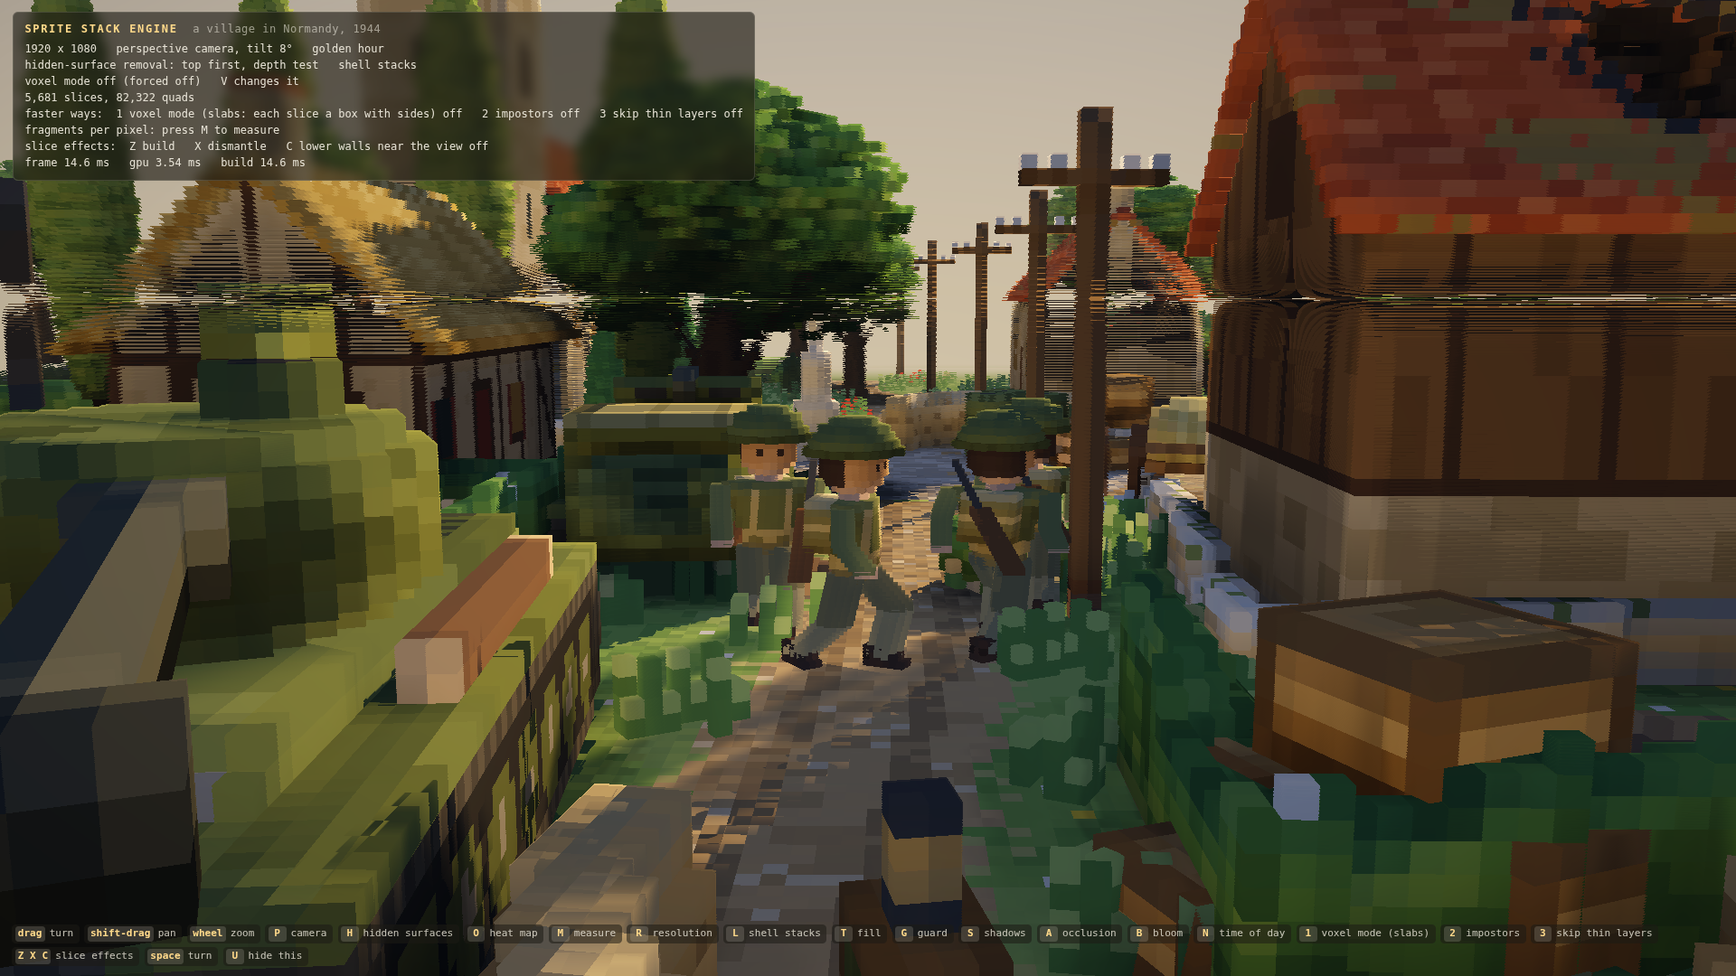
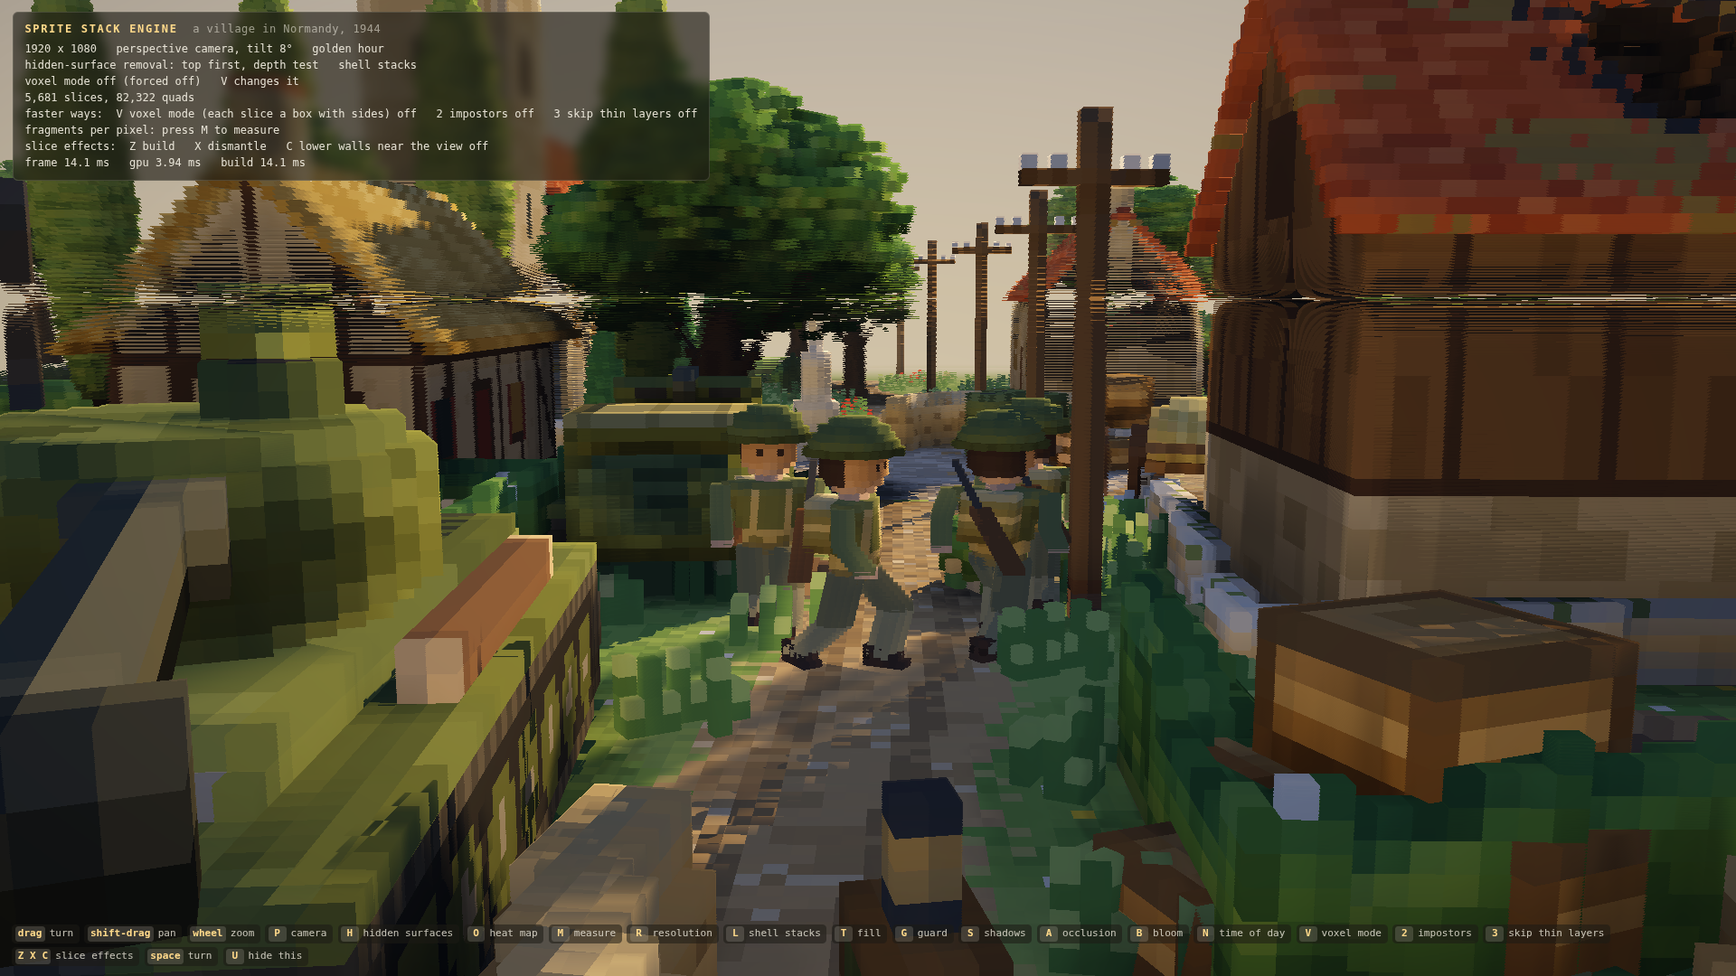
A larger voxel mode badge, top centre; one name and one key for voxel mode throughout; tables and media from this build

Changed region(s): [[0.125, 0.0, 0.4375, 0.1833], [0.7812, 0.9472, 0.9062, 0.9778]]

diff --git a/index.html b/index.html
@@ -14,9 +14,9 @@
   #hud { font: 12px/1.5 ui-monospace, "Cascadia Mono", Consolas, Menlo, monospace; color: #f3efe2; pointer-events: none; }
   #hud.off, #hud.film #keys { display: none; }
   /* the badge: shown while the engine draws in voxel mode, fades when it stops */
-  #badge { position: fixed; right: 1.2em; top: 1.1em; padding: 0.55em 0.9em 0.6em; font: 600 13px/1.3 ui-monospace, "Cascadia Mono", Consolas, Menlo, monospace; letter-spacing: 0.14em; color: #1c1a14; background: #ffd98a; border-radius: 0.45em; box-shadow: 0 2px 10px rgba(0, 0, 0, 0.35); opacity: 0; transition: opacity 0.9s; pointer-events: none; }
+  #badge { position: fixed; left: 50%; top: 18px; transform: translateX(-50%); padding: 0.3em 0.9em 0.4em; font: 700 clamp(20px, 2.8vh, 34px)/1.2 ui-monospace, "Cascadia Mono", Consolas, Menlo, monospace; letter-spacing: 0.16em; text-align: center; white-space: nowrap; color: #1c1a14; background: #ffd98a; border: 2px solid #1c1a14; border-radius: 0.3em; box-shadow: 0 4px 18px rgba(0, 0, 0, 0.45); opacity: 0; transition: opacity 0.9s; pointer-events: none; }
   #badge.on { opacity: 1; transition: opacity 0.15s; }
-  #badge small { display: block; margin-top: 0.15em; font-weight: 400; font-size: 0.82em; letter-spacing: 0.02em; }
+  #badge small { display: block; margin-top: 0.1em; font-weight: 500; font-size: 0.5em; letter-spacing: 0.06em; }
   #panel { position: fixed; left: 1.2em; top: 1.1em; padding: 0.75em 1em 0.8em; background: rgba(28, 26, 20, 0.62); border: 1px solid rgba(243, 239, 226, 0.14); border-radius: 0.5em; -webkit-backdrop-filter: blur(6px); backdrop-filter: blur(6px); }
   #panel h1 { margin: 0 0 0.35em; font-size: 1em; font-weight: 600; letter-spacing: 0.14em; text-transform: uppercase; color: #ffd98a; }
   #panel h1 span { color: rgba(243, 239, 226, 0.55); font-weight: 400; letter-spacing: 0.04em; text-transform: none; }
@@ -34,7 +34,7 @@
   <div id="panel"><h1>Sprite stack engine <span>&nbsp;a village in Normandy, 1944</span></h1><pre id="stats"></pre></div>
   <div id="keys">
     <span><b>drag</b>turn</span><span><b>shift-drag</b>pan</span><span><b>wheel</b>zoom</span><span><b>P</b>camera</span><span><b>H</b>hidden surfaces</span><span><b>O</b>heat map</span><span><b>M</b>measure</span>
-    <span><b>R</b>resolution</span><span><b>L</b>shell stacks</span><span><b>T</b>fill</span><span><b>G</b>guard</span><span><b>S</b>shadows</span><span><b>A</b>occlusion</span><span><b>B</b>bloom</span><span><b>N</b>time of day</span><span><b>1</b>voxel mode (slabs)</span><span><b>2</b>impostors</span><span><b>3</b>skip thin layers</span><span><b>Z X C</b>slice effects</span><span><b>space</b>turn</span><span><b>U</b>hide this</span>
+    <span><b>R</b>resolution</span><span><b>L</b>shell stacks</span><span><b>T</b>fill</span><span><b>G</b>guard</span><span><b>S</b>shadows</span><span><b>A</b>occlusion</span><span><b>B</b>bloom</span><span><b>N</b>time of day</span><span><b>V</b>voxel mode</span><span><b>2</b>impostors</span><span><b>3</b>skip thin layers</span><span><b>Z X C</b>slice effects</span><span><b>space</b>turn</span><span><b>U</b>hide this</span>
   </div>
 </div>
 <script src="js/art.js"></script>

diff --git a/js/main.js b/js/main.js
@@ -1,7 +1,7 @@
 // main.js: the demo. Builds the village, moves what moves, flies the camera, shows the numbers.
 //
 // Mouse: drag turns and tilts, shift-drag or right-drag pans, wheel zooms.
-// Keys: V or 1 voxel mode (by itself, on, off), 2 impostors, 3 skip thin layers; Z build, X dismantle, C lower walls; P perspective / parallel, H hidden-surface removal, O overdraw heat map (written, covered, off), M measure,
+// Keys: V (or 1) voxel mode (by itself, on, off), 2 impostors, 3 skip thin layers; Z build, X dismantle, C lower walls; P perspective / parallel, H hidden-surface removal, O overdraw heat map (written, covered, off), M measure,
 //       R internal resolution (1x, 1/2, 1/3), L shell stacks, T thickness fill, G edge guard,
 //       S shadows, A ambient occlusion, B bloom, N time of day (drifting, afternoon, golden hour, dusk),
 //       Space stops and starts the slow turn, U hides the read-out.
@@ -299,7 +299,7 @@
       (voxel ? 'VOXEL MODE: a box per slice, depth test' : S.hsr ? 'hidden-surface removal: top first, depth test' : 'painter order: bottom first, no depth test') + '   ' + (S.shell ? 'shell' : 'whole') + ' stacks' + (voxel ? '' : (S.fill ? '' : '   fill off') + (S.guard ? '' : '   guard off')),
       'voxel mode ' + (voxel ? 'on' : 'off') + (S.voxel === 1 ? ' (forced on)' : S.voxel === 0 ? ' (forced off)' : voxel ? (rowsSeen > VOXEL_ROWS ? ' (a layer is ' + Math.round(rowsSeen) + ' rows tall, over ' + VOXEL_ROWS + ')' : ' (the view is under ' + Math.round(tiltLimit() * 180 / Math.PI) + '\u00b0)') : ' (flat slices hold above ' + Math.round(tiltLimit() * 180 / Math.PI) + '\u00b0)') + '   V changes it',
       th(s.slices) + ' slices, ' + th(s.instances) + (voxel ? ' boxes' : ' quads') + (sprites.length ? ' (' + sprites.length + ' of them impostors)' : ''),
-      'faster ways:  1 voxel mode (slabs: each slice a box with sides) ' + (voxel ? 'on' : 'off') + '   2 impostors ' + (!S.impostors ? 'off' : sprites.length ? 'on, ' + Math.round(sheet.bytes / 1048576) + ' MB' : cam.mode === 'persp' ? 'on (parallel camera only)' : !(S.hsr || voxel) ? 'on (need the depth test)' : 'on (baking)') + '   3 skip thin layers ' + (S.lod ? 'on' : 'off'),
+      'faster ways:  V voxel mode (each slice a box with sides) ' + (voxel ? 'on' : 'off') + '   2 impostors ' + (!S.impostors ? 'off' : sprites.length ? 'on, ' + Math.round(sheet.bytes / 1048576) + ' MB' : cam.mode === 'persp' ? 'on (parallel camera only)' : !(S.hsr || voxel) ? 'on (need the depth test)' : 'on (baking)') + '   3 skip thin layers ' + (S.lod ? 'on' : 'off'),
       s.written ? 'fragments per pixel: ' + f1(s.written.avg) + ' written (' + Math.round(s.written.max) + ' max), ' + f1(s.covered.avg) + ' covered (' + Math.round(s.covered.max) + ' max)' : 'fragments per pixel: press M to measure',
       'slice effects:  Z build   X dismantle   C lower walls near the view ' + (FX.on ? 'on' : 'off'),
       'frame ' + f1(ms) + ' ms' + (s.gpuMs !== null ? '   gpu ' + f1(s.gpuMs) + ' ms' : '') + '   build ' + f1(s.cpuMs) + ' ms' + (S.measure || S.heat ? '   (with the count pass)' : '')

diff --git a/tools/bench.py b/tools/bench.py
@@ -20,7 +20,7 @@ VIEWS = ['overview', 'street']
 RES = [(1, 'native 1920x1080'), (2, 'internal 960x540')]
 ORDERS = [(0, 0, 'painter, whole stacks'), (0, 1, 'painter, shell stacks'), (1, 0, 'hidden-surface, whole stacks'), (1, 1, 'hidden-surface, shell stacks')]
 # the faster ways: (voxel mode, impostors, skip thin layers, name), and where: (view, internal resolution divisor, name)
-TRICKS = [(0, 0, 0, 'flat quads (none)'), (1, 0, 0, 'voxel mode (slabs)'), (0, 1, 0, 'impostors'), (0, 0, 1, 'skip thin layers'), (1, 1, 0, 'voxel mode + impostors'), (1, 1, 1, 'all three')]
+TRICKS = [(0, 0, 0, 'flat quads (none)'), (1, 0, 0, 'voxel mode (each slice a box with sides)'), (0, 1, 0, 'impostors'), (0, 0, 1, 'skip thin layers'), (1, 1, 0, 'voxel mode + impostors'), (1, 1, 1, 'all three')]
 PLACES = [('overview', 1, 'overview, 1920x1080'), ('street', 1, 'street, 1920x1080'), ('far', 3, 'far (whole map small), internal 640x360')]
 
 

diff --git a/README.md b/README.md
@@ -22,7 +22,7 @@ It exists to test two claims about sprite stacking with numbers instead of opini
 
 And one more thing, which matters more than either: [it's about the look](#its-about-the-look), not about the
 slices. The art is the constant and the renderer is a choice: there are faster ways to draw the same stacks
-(**1**, **2**, **3**), and there are things only slices do (**Z**, **X**, **C**).
+(**V**, **2**, **3**), and there are things only slices do (**Z**, **X**, **C**).
 
 The demo scene is a village in hedgerow country in the summer of 1944, lit by a low sun that sinks to dusk.
 The lighting is one pass over the screen and is written to be read: every effect has a comment in
@@ -35,7 +35,7 @@ Open `index.html` in a browser with WebGL2. It runs from the file system; there 
 | Drag | turn and tilt |
 | Shift-drag, right-drag | pan |
 | Wheel | zoom |
-| 1 or V | voxel mode (slabs: each slice drawn as a box with sides): by itself (the default), always, never |
+| V (or 1) | voxel mode (each slice drawn as a box with sides): by itself (the default), always, never |
 | 2, 3 | more faster ways to draw: impostors, skip thin layers |
 | Z, X, C | slice effects: build, dismantle, lower the walls near the view |
 | P | parallel / perspective camera |
@@ -63,22 +63,22 @@ blit, each frame waited for, averaged over 200 frames.
 
 | view | resolution | order | quads | written avg | written max | covered avg | covered max | ms/frame |
 | --- | --- | --- | ---: | ---: | ---: | ---: | ---: | ---: |
-| overview | native 1920x1080 | painter, whole stacks | 25182 | 12.92 | 127 | 22.2 | 286 | 1.27 |
-| overview | native 1920x1080 | painter, shell stacks | 24881 | 8.84 | 125 | 20.9 | 284 | 1.20 |
-| overview | native 1920x1080 | hidden-surface, whole stacks | 25182 | 0.67 | 2 | 22.2 | 286 | 1.18 |
-| overview | native 1920x1080 | hidden-surface, shell stacks | 24881 | 0.67 | 2 | 20.9 | 284 | 1.09 |
-| overview | internal 960x540 | painter, whole stacks | 16497 | 9.29 | 83 | 15.5 | 177 | 0.81 |
-| overview | internal 960x540 | painter, shell stacks | 16196 | 6.16 | 78 | 14.3 | 175 | 0.92 |
-| overview | internal 960x540 | hidden-surface, whole stacks | 16497 | 0.67 | 2 | 15.5 | 177 | 0.78 |
-| overview | internal 960x540 | hidden-surface, shell stacks | 16196 | 0.67 | 2 | 14.3 | 175 | 0.79 |
-| street | native 1920x1080 | painter, whole stacks | 60140 | 103.43 | 490 | 141.1 | 670 | 3.10 |
-| street | native 1920x1080 | painter, shell stacks | 59932 | 50.79 | 474 | 137.8 | 668 | 2.68 |
-| street | native 1920x1080 | hidden-surface, whole stacks | 60140 | 1.09 | 3 | 141.1 | 670 | 2.08 |
-| street | native 1920x1080 | hidden-surface, shell stacks | 59932 | 1.09 | 3 | 137.8 | 668 | 2.11 |
-| street | internal 960x540 | painter, whole stacks | 33568 | 54.02 | 256 | 73.6 | 339 | 1.26 |
-| street | internal 960x540 | painter, shell stacks | 33360 | 26.58 | 241 | 71.1 | 337 | 1.31 |
-| street | internal 960x540 | hidden-surface, whole stacks | 33568 | 0.98 | 3 | 73.6 | 339 | 1.42 |
-| street | internal 960x540 | hidden-surface, shell stacks | 33360 | 0.98 | 3 | 71.1 | 337 | 1.22 |
+| overview | native 1920x1080 | painter, whole stacks | 25182 | 12.92 | 127 | 22.2 | 286 | 1.04 |
+| overview | native 1920x1080 | painter, shell stacks | 24881 | 8.84 | 125 | 20.9 | 284 | 1.01 |
+| overview | native 1920x1080 | hidden-surface, whole stacks | 25182 | 0.67 | 2 | 22.2 | 286 | 0.95 |
+| overview | native 1920x1080 | hidden-surface, shell stacks | 24881 | 0.67 | 2 | 20.9 | 284 | 0.93 |
+| overview | internal 960x540 | painter, whole stacks | 16497 | 9.29 | 83 | 15.5 | 177 | 0.68 |
+| overview | internal 960x540 | painter, shell stacks | 16196 | 6.16 | 78 | 14.3 | 175 | 0.69 |
+| overview | internal 960x540 | hidden-surface, whole stacks | 16497 | 0.67 | 2 | 15.5 | 177 | 0.74 |
+| overview | internal 960x540 | hidden-surface, shell stacks | 16196 | 0.67 | 2 | 14.3 | 175 | 0.73 |
+| street | native 1920x1080 | painter, whole stacks | 60140 | 103.43 | 490 | 141.1 | 670 | 2.65 |
+| street | native 1920x1080 | painter, shell stacks | 59932 | 50.79 | 474 | 137.8 | 668 | 2.30 |
+| street | native 1920x1080 | hidden-surface, whole stacks | 60140 | 1.09 | 3 | 141.1 | 670 | 1.70 |
+| street | native 1920x1080 | hidden-surface, shell stacks | 59932 | 1.09 | 3 | 137.8 | 668 | 1.78 |
+| street | internal 960x540 | painter, whole stacks | 33568 | 54.02 | 256 | 73.6 | 339 | 1.34 |
+| street | internal 960x540 | painter, shell stacks | 33360 | 26.58 | 241 | 71.1 | 337 | 1.33 |
+| street | internal 960x540 | hidden-surface, whole stacks | 33568 | 0.98 | 3 | 73.6 | 339 | 1.33 |
+| street | internal 960x540 | hidden-surface, shell stacks | 33360 | 0.98 | 3 | 71.1 | 337 | 1.21 |
 
 - **written**: fragments that reached the G-buffer, per screen pixel (all pixels; in the overview a third of
   the screen is open ground beyond the map, which no stack covers, so its best case is 0.67 and not 1).
@@ -117,31 +117,31 @@ rough: only 6 frames per row.
 
 | view | resolution | order | written avg | ms/frame |
 | --- | --- | --- | ---: | ---: |
-| overview | native 1920x1080 | painter, whole stacks | 12.92 | 668 |
-| overview | native 1920x1080 | painter, shell stacks | 8.84 | 671 |
-| overview | native 1920x1080 | hidden-surface, whole stacks | 0.67 | 617 |
-| overview | native 1920x1080 | hidden-surface, shell stacks | 0.67 | 616 |
-| overview | internal 960x540 | painter, whole stacks | 9.29 | 237 |
-| overview | internal 960x540 | painter, shell stacks | 6.16 | 253 |
-| overview | internal 960x540 | hidden-surface, whole stacks | 0.67 | 250 |
-| overview | internal 960x540 | hidden-surface, shell stacks | 0.67 | 243 |
-| street | native 1920x1080 | painter, whole stacks | 103.42 | 1385 |
-| street | native 1920x1080 | painter, shell stacks | 50.78 | 1363 |
-| street | native 1920x1080 | hidden-surface, whole stacks | 1.09 | 1259 |
-| street | native 1920x1080 | hidden-surface, shell stacks | 1.09 | 1252 |
-| street | internal 960x540 | painter, whole stacks | 54.02 | 417 |
-| street | internal 960x540 | painter, shell stacks | 26.58 | 489 |
-| street | internal 960x540 | hidden-surface, whole stacks | 0.98 | 461 |
-| street | internal 960x540 | hidden-surface, shell stacks | 0.98 | 1351 |
+| overview | native 1920x1080 | painter, whole stacks | 12.92 | 677 |
+| overview | native 1920x1080 | painter, shell stacks | 8.84 | 688 |
+| overview | native 1920x1080 | hidden-surface, whole stacks | 0.67 | 679 |
+| overview | native 1920x1080 | hidden-surface, shell stacks | 0.67 | 673 |
+| overview | internal 960x540 | painter, whole stacks | 9.29 | 272 |
+| overview | internal 960x540 | painter, shell stacks | 6.16 | 281 |
+| overview | internal 960x540 | hidden-surface, whole stacks | 0.67 | 286 |
+| overview | internal 960x540 | hidden-surface, shell stacks | 0.67 | 268 |
+| street | native 1920x1080 | painter, whole stacks | 103.42 | 1552 |
+| street | native 1920x1080 | painter, shell stacks | 50.78 | 1492 |
+| street | native 1920x1080 | hidden-surface, whole stacks | 1.09 | 1400 |
+| street | native 1920x1080 | hidden-surface, shell stacks | 1.09 | 1383 |
+| street | internal 960x540 | painter, whole stacks | 54.02 | 470 |
+| street | internal 960x540 | painter, shell stacks | 26.58 | 456 |
+| street | internal 960x540 | hidden-surface, whole stacks | 0.98 | 485 |
+| street | internal 960x540 | hidden-surface, shell stacks | 0.98 | 1006 |
 
-- On a CPU the light pass is now the main cost. The overview takes 620 to 670 ms whatever the draw order,
+- On a CPU the light pass is now the main cost. The overview takes about 680 ms whatever the draw order,
   because the two million pixels each do the same shadow walk and occlusion samples; a quarter of the pixels
-  takes it to about 245 ms. **S** and **A** switch shadows and occlusion off.
-- At street level hidden-surface removal saves about a tenth at native resolution (1385 to 1259 ms). The
+  takes it to about 275 ms. **S** and **A** switch shadows and occlusion off.
+- At street level hidden-surface removal saves about a tenth at native resolution (1552 to 1400 ms). The
   rasteriser still walks every covered fragment, and covered fragments are what a CPU pays for.
 - None of these rows is real time: a software rasteriser at 1080p is the wrong tool whatever the method.
 - The machine was busy with other work during this run. One row (street, 960x540, hidden-surface, shell
-  stacks, 1351 ms) is out of line with its three neighbours for that reason, so read these timings as orders
+  stacks, 1006 ms) is out of line with its three neighbours for that reason, so read these timings as orders
   of magnitude.
 
 The two heat maps below are the street view at 1920x1080. (The frame times printed in these stills include the
@@ -162,7 +162,7 @@ ground included.
 
 ![Nearly along the ground (tilt 8 degrees), flat slices: layers smear and sort wrongly](media/voxel-off.png)
 
-![The same view in voxel mode: the badge is top right](media/voxel-on.png)
+![The same view in voxel mode: the badge is at the top](media/voxel-on.png)
 
 **What it is.** Each slice is drawn as what it stands for: a box one layer tall, with a top, four sides and a
 bottom. The box is drawn once. Its fragment shader starts where the view ray enters the box and steps from
@@ -206,7 +206,7 @@ doubles between 27 and 21, on the way to the 20 degrees where its top rays turn 
 is no longer a fair measure: slices then sort in the wrong order as well, which this count does not see, and
 the picture is far worse than half a percent suggests (the first still above).
 
-![A tilt sweep at street level, 60 to 5 degrees: flat slices down to 25, voxel mode (badge top right) at 15 and 5](media/sweep.png)
+![A tilt sweep at street level, 60 to 5 degrees: flat slices down to 25, voxel mode (badge at the top) at 15 and 5](media/sweep.png)
 
 **The soldiers' limbs.** One part of this was a plain bug, found by looking at a soldier head-on. Arms and legs
 are single slices strung along a bone. The engine treated every one-layer stack as flat and gave it no fill at
@@ -218,8 +218,8 @@ apart, and a soldier is solid head-on in plain sprite stacking.
 
 ![And lower, at 7 degrees, in voxel mode](media/soldier-voxel.png)
 
-**The badge.** "VOXEL MODE, slices get side faces", top right, whenever it is on; it fades when the camera
-tilts back up. The read-out says why it is on. **1** (or **V**) forces it on, forces it off, or hands the
+**The badge.** "VOXEL MODE, slices get side faces", large, top centre, whenever it is on; it fades when the camera
+tilts back up. The read-out says why it is on. **V** (or **1**) forces it on, forces it off, or hands the
 choice back.
 Forced off, the camera gets its old limits back.
 
@@ -227,12 +227,12 @@ Forced off, the camera gets its old limits back.
 
 | view | drawn as | quads or boxes | written avg | covered avg | gaps | ms/frame |
 | --- | --- | ---: | ---: | ---: | ---: | ---: |
-| overview, tilt 41 | flat slices | 24881 | 0.67 | 20.9 | 0.70% | 1.18 |
-| overview, tilt 41 | voxel mode | 8543 | 0.67 | 7.7 | 0 | 0.89 |
-| street, tilt 25 | flat slices | 59932 | 1.09 | 137.8 | 0.18% | 2.05 |
-| street, tilt 25 | voxel mode | 5394 | 0.99 | 9.2 | 0 | 0.82 |
-| level, tilt 8 | flat slices | 81830 | 5.11 | 167.0 | 0.63% | 2.61 |
-| level, tilt 8 | voxel mode | 5500 | 1.52 | 7.2 | 0 | 0.82 |
+| overview, tilt 41 | flat slices | 24881 | 0.67 | 20.9 | 0.70% | 0.95 |
+| overview, tilt 41 | voxel mode | 8543 | 0.67 | 7.7 | 0 | 0.68 |
+| street, tilt 25 | flat slices | 59932 | 1.09 | 137.8 | 0.18% | 1.68 |
+| street, tilt 25 | voxel mode | 5394 | 0.99 | 9.2 | 0 | 0.66 |
+| level, tilt 8 | flat slices | 81830 | 5.11 | 167.0 | 0.63% | 2.09 |
+| level, tilt 8 | voxel mode | 5500 | 1.52 | 7.2 | 0 | 0.65 |
 
 ("Gaps" is the count above. Flat slices at 8 degrees are there only for the comparison: the camera
 does not go there without voxel mode.) On this GPU voxel mode is the cheaper of the two wherever both work:
@@ -258,29 +258,29 @@ seen small, at a third of the resolution, which is where the last one has someth
 
 | view | drawn as | quads or boxes | written avg | covered avg | covered max | ms/frame |
 | --- | --- | ---: | ---: | ---: | ---: | ---: |
-| overview, 1920x1080 | flat quads (none) | 24881 | 0.67 | 20.9 | 284 | 1.18 |
-| overview, 1920x1080 | voxel mode (slabs) | 8543 | 0.67 | 7.7 | 92 | 0.91 |
-| overview, 1920x1080 | impostors | 9947 | 0.87 | 12.8 | 259 | 0.79 |
-| overview, 1920x1080 | skip thin layers | 24881 | 0.67 | 20.9 | 284 | 1.31 |
-| overview, 1920x1080 | voxel mode + impostors | 4174 | 0.88 | 5.7 | 84 | 0.66 |
-| overview, 1920x1080 | all three | 4174 | 0.88 | 5.7 | 84 | 0.70 |
-| street, 1920x1080 | flat quads (none) | 59932 | 1.09 | 137.8 | 668 | 2.27 |
-| street, 1920x1080 | voxel mode (slabs) | 5394 | 0.99 | 9.2 | 38 | 0.80 |
-| street, 1920x1080 | impostors | 59932 | 1.09 | 137.8 | 668 | 2.23 |
-| street, 1920x1080 | skip thin layers | 59932 | 1.09 | 137.8 | 668 | 2.02 |
-| street, 1920x1080 | voxel mode + impostors | 5394 | 0.99 | 9.2 | 38 | 0.81 |
-| street, 1920x1080 | all three | 5394 | 0.99 | 9.2 | 38 | 0.83 |
-| far (whole map small), internal 640x360 | flat quads (none) | 8887 | 0.12 | 1.5 | 93 | 0.57 |
-| far (whole map small), internal 640x360 | voxel mode (slabs) | 8623 | 0.12 | 1.4 | 91 | 0.59 |
-| far (whole map small), internal 640x360 | impostors | 4221 | 0.16 | 1.0 | 89 | 0.56 |
-| far (whole map small), internal 640x360 | skip thin layers | 5046 | 0.11 | 0.7 | 49 | 0.53 |
-| far (whole map small), internal 640x360 | voxel mode + impostors | 4202 | 0.16 | 1.0 | 83 | 0.43 |
-| far (whole map small), internal 640x360 | all three | 3005 | 0.14 | 0.7 | 48 | 0.44 |
+| overview, 1920x1080 | flat quads (none) | 24881 | 0.67 | 20.9 | 284 | 0.96 |
+| overview, 1920x1080 | voxel mode (each slice a box with sides) | 8543 | 0.67 | 7.7 | 92 | 0.73 |
+| overview, 1920x1080 | impostors | 9947 | 0.87 | 12.8 | 259 | 0.64 |
+| overview, 1920x1080 | skip thin layers | 24881 | 0.67 | 20.9 | 284 | 0.92 |
+| overview, 1920x1080 | voxel mode + impostors | 4174 | 0.88 | 5.7 | 84 | 0.52 |
+| overview, 1920x1080 | all three | 4174 | 0.88 | 5.7 | 84 | 0.53 |
+| street, 1920x1080 | flat quads (none) | 59932 | 1.09 | 137.8 | 668 | 1.70 |
+| street, 1920x1080 | voxel mode (each slice a box with sides) | 5394 | 0.99 | 9.2 | 38 | 0.67 |
+| street, 1920x1080 | impostors | 59932 | 1.09 | 137.8 | 668 | 1.75 |
+| street, 1920x1080 | skip thin layers | 59932 | 1.09 | 137.8 | 668 | 1.71 |
+| street, 1920x1080 | voxel mode + impostors | 5394 | 0.99 | 9.2 | 38 | 0.65 |
+| street, 1920x1080 | all three | 5394 | 0.99 | 9.2 | 38 | 0.87 |
+| far (whole map small), internal 640x360 | flat quads (none) | 8887 | 0.12 | 1.5 | 93 | 0.67 |
+| far (whole map small), internal 640x360 | voxel mode (each slice a box with sides) | 8623 | 0.12 | 1.4 | 91 | 0.70 |
+| far (whole map small), internal 640x360 | impostors | 4221 | 0.16 | 1.0 | 89 | 0.51 |
+| far (whole map small), internal 640x360 | skip thin layers | 5046 | 0.11 | 0.7 | 49 | 0.54 |
+| far (whole map small), internal 640x360 | voxel mode + impostors | 4202 | 0.16 | 1.0 | 83 | 0.51 |
+| far (whole map small), internal 640x360 | all three | 3005 | 0.14 | 0.7 | 48 | 0.52 |
 
-- **1, voxel mode (slabs: each slice drawn as a box with sides).** This is the [voxel mode](#voxel-mode)
-  above, forced on at any tilt, and it is the biggest win by a long way: at street level 59,932 quads become
-  5,394 boxes, the fragments the rasteriser covers go from 138 per pixel to 9, and the frame from 2.3 ms to
-  0.8. It should be said plainly what it is: **a voxel-style renderer for the same stack-authored art.** Not
+- **V, voxel mode (each slice drawn as a box with sides).** This is the [voxel mode](#voxel-mode) above,
+  forced on at any tilt (it is one renderer, with one key), and it is the biggest win by a long way: at street level 59,932 quads become
+  5,394 boxes, the fragments the rasteriser covers go from 138 per pixel to 9, and the frame from 1.7 ms to
+  0.7. It should be said plainly what it is: **a voxel-style renderer for the same stack-authored art.** Not
   one slice was redrawn for it. Layers that repeat the one under them also merge into one taller box (a
   "run", up to three layers), but that finds little here: 45 of 2,592 layers repeat, because walls and leaves
   are painted pixel by pixel. The costs are the ones listed under voxel mode.
